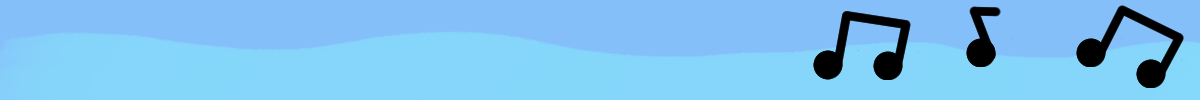
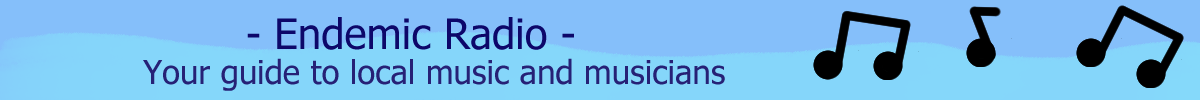
made prettier

Changed region(s): [[0.0925, 0.6, 0.6167, 0.9], [0.185, 0.18, 0.4933, 0.51], [0.4008, 0.6, 0.4317, 0.63]]

diff --git a/templates/base.html b/templates/base.html
@@ -67,14 +67,12 @@
       <header >
 
         <div class="container">
-          <img src="/media/musicbanner.png" alt="banner" width="100%" margins="auto">
-          <div class="center">
 
-              <h1 class="centered">-Endemic Radio-</h1>
-              <h2 class="centered">
-                "Your guide to local music and musicians"
-              </h2>
+          <div class="row" id="box-search">
+            <div class="thumbnail text-center">
+                <img src="/media/musicbanner.png" alt="" class="img-responsive">
 
+            </div>
           </div>
         </div>
       </header>

diff --git a/stream/templates/stream/musicpage.html b/stream/templates/stream/musicpage.html
@@ -2,8 +2,8 @@
 <script src="https://ajax.googleapis.com/ajax/libs/jquery/3.3.1/jquery.min.js"></script>
 <script src="https://cdnjs.cloudflare.com/ajax/libs/popper.js/1.14.7/umd/popper.min.js"></script>
 <script src="https://stackpath.bootstrapcdn.com/bootstrap/4.3.1/js/bootstrap.min.js"></script>
-<div class="jumbotron">
-     Welcome to Endemic Radio!! Get ready for some music and art!
+<div style="background:transparent !important" class="jumbotron">
+    <h2>Welcome to Endemic Radio!! Get ready for some music and art!</h2>
     <style>
 .carousel{
     background: #2f4357;

diff --git a/static/style.css b/static/style.css
@@ -2,7 +2,7 @@
 
 
 main {
-    padding-top:100px;
+    padding-top:75px;
 
 }
 .roman {
@@ -13,6 +13,7 @@ main {
  margin-left: -2em;
 }
 .main-container {
+     padding-top:75px;
      min-height: 85vh; /* will cover the 100% of viewport */
      overflow: hidden;
      display: block;
@@ -32,4 +33,9 @@ main {
 
 .head{
     background-color: #ff9a42;
+}
+
+.thumbnail {
+    position: relative;
+    padding-bottom: 50px;
 }

diff --git a/stream/templates/stream/login.html b/stream/templates/stream/login.html
@@ -1,7 +1,7 @@
 {% extends "base.html" %} {% block content %}
 
-<div class="jumbotron">
-   Welcome to Endemic Radio!! Click below to sign in or sign up for local music and art!
+<div style="background:transparent !important" class="jumbotron">
+   <h2>Welcome to Endemic Radio!! Click below to sign in or sign up for local music and art!</h2>
 </div>
 
 <div class="container-fluid">

diff --git a/stream/templates/stream/logout.html b/stream/templates/stream/logout.html
@@ -1,7 +1,7 @@
 {% extends "base.html" %} {% block content %}
 
-<div class="jumbotron">
-      Goodbye! You are now logged out. We hope you enjoyed the music!
+<div style="background:transparent !important" class="jumbotron">
+    <h2>Goodbye! You are now logged out. We hope you enjoyed the music </h2>
 </div>
 
 <div class="container-fluid">
